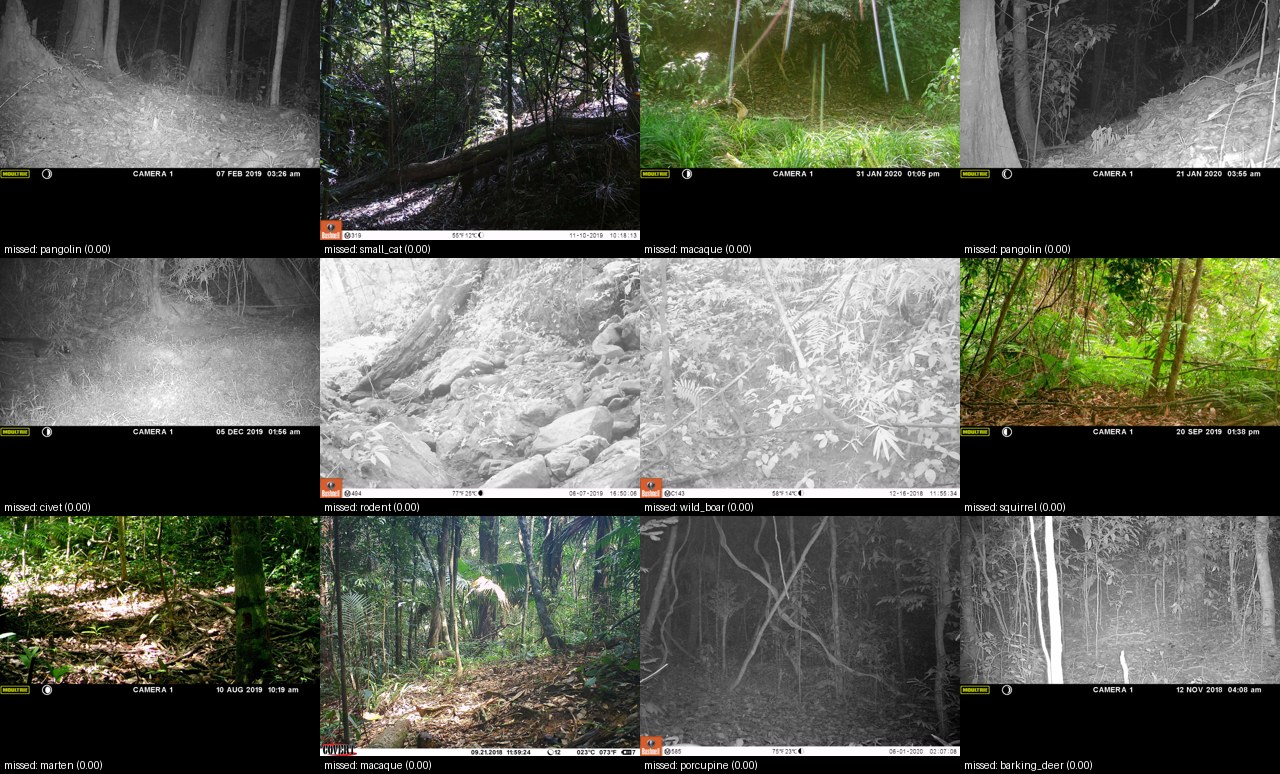
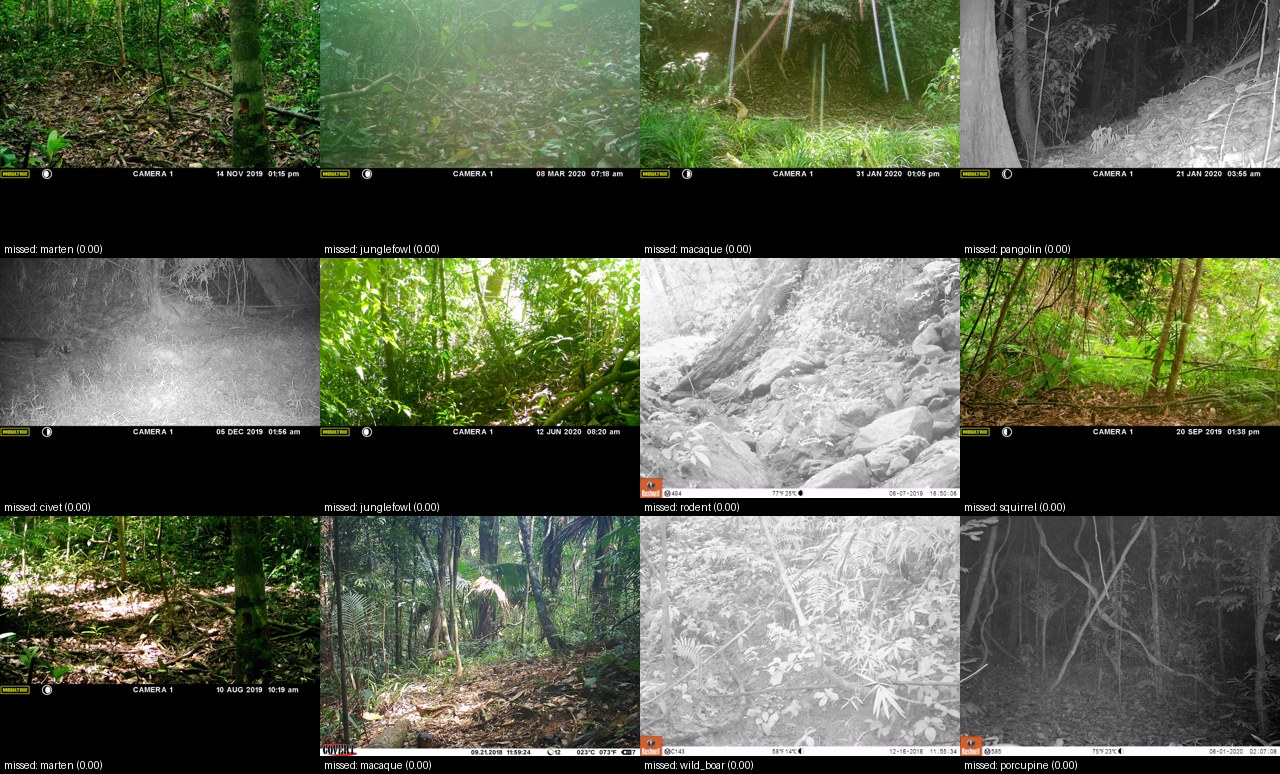
phase 1: drop padding strips in the detector, redo the numbers
the 16 px rule from the last commit would also drop a tiny animal in the
open, so a strip is now a box under 16 px thick that lies on the frame
edge (is_padding_strip). same 1,531 phase 2 crops dropped, crops.csv
byte-identical. the detector applies it too, so new runs come out clean.

saved phase 1 detections filtered in place (3,317 boxes from 2,023 of
5,726 frames; original kept outside git). at 0.01, recall 96.5 -> 95.5%
(27 animal events with no box, was 21), empties removed 28 -> 31%; at
90% recall 66% removed (was 65%). event auc 0.913 -> 0.910. pangolin is
still the worst group (87.8%), and no filter rule beats raising the
threshold.

diff --git a/src/ghats/crops.py b/src/ghats/crops.py
@@ -21,11 +21,10 @@ import pandas as pd
 
 BACKGROUND = "background"
 SPLITS = ("train", "val", "test")
-# Shorter box side, in frame pixels, below which a box is a letterbox-padding phantom.
-# has_area() drops the boxes that clamp to zero height, but ones that end a pixel or two
-# inside the frame survive: full-width strips along the top or bottom edge, conf <= 0.17.
-# In the Phase 2 detections every animal box under 16 px is one of those; nothing that
-# small could be classified anyway.
+# A box this thin (frame pixels) lying on the frame edge is a letterbox-padding phantom.
+# Boxes on the padding clamp to zero-height strips, but ones that end a pixel or two inside
+# the frame survive as full-width strips along the top or bottom edge, conf <= 0.17. In the
+# Phase 2 detections every animal box under 16 px is one of those.
 MIN_BOX_PX = 16
 
 
@@ -44,9 +43,14 @@ def crop_box(bbox: Sequence[float], w: int, h: int, pad: float = 0.1, min_side: 
     return left, top, max(right, left + 1), max(bottom, top + 1)
 
 
-def box_side_px(bbox: Sequence[float], w: int, h: int) -> float:
-    """Shorter side of a normalised [x1, y1, x2, y2] box, in pixels of a w x h frame."""
-    return min((bbox[2] - bbox[0]) * w, (bbox[3] - bbox[1]) * h)
+def is_padding_strip(bbox: Sequence[float], w: int, h: int) -> bool:
+    """Normalised [x1, y1, x2, y2] box thinner than MIN_BOX_PX and touching the frame edge
+    across that thin side (top/bottom for wide frames, left/right for tall ones). A tiny
+    animal in the open is kept."""
+    x1, y1, x2, y2 = bbox
+    flat = (y2 - y1) * h < MIN_BOX_PX and (y1 <= 0.0 or y2 >= 1.0)
+    narrow = (x2 - x1) * w < MIN_BOX_PX and (x1 <= 0.0 or x2 >= 1.0)
+    return flat or narrow
 
 
 def label_boxes(boxes: pd.DataFrame, min_conf: float, train_min_conf: float) -> pd.DataFrame:

diff --git a/src/ghats/detector.py b/src/ghats/detector.py
@@ -12,6 +12,8 @@ from typing import Any
 
 from PIL import Image
 
+from ghats.crops import is_padding_strip
+
 ANIMAL, PERSON, VEHICLE = 0, 1, 2
 _CLASS_NAMES = {ANIMAL: "animal", PERSON: "person", VEHICLE: "vehicle"}
 _SUPPORTED = ("MegaDetectorV6MIT", "MegaDetectorV6", "MegaDetectorV6Apache")
@@ -105,7 +107,8 @@ def _to_detections(classes: Any, confs: Any, boxes: Any, w: int, h: int) -> list
     # coordinates, sometimes slightly past the edge; normalise and clamp.
     # The model also fires on the letterbox padding above and below wide frames
     # (conf up to ~0.2, in almost every image). Those boxes lie wholly outside the
-    # image, clamp to zero-height strips on the border, and are dropped.
+    # image, clamp to zero-height strips on the border, and are dropped, along with the
+    # ones that end a pixel or two inside it.
     dets = [
         Detection(
             category=_CLASS_NAMES.get(int(c), str(int(c))),
@@ -114,4 +117,4 @@ def _to_detections(classes: Any, confs: Any, boxes: Any, w: int, h: int) -> list
         )
         for c, p, box in zip(classes, confs, boxes)
     ]
-    return [d for d in dets if has_area(d.bbox)]
+    return [d for d in dets if has_area(d.bbox) and not is_padding_strip(d.bbox, w, h)]

diff --git a/scripts/06_make_crops.py b/scripts/06_make_crops.py
@@ -28,7 +28,7 @@ from PIL import Image
 from tqdm import tqdm
 
 from ghats.config import load_config
-from ghats.crops import BACKGROUND, MIN_BOX_PX, SPLITS, box_side_px, crop_box, label_boxes, split_locations
+from ghats.crops import BACKGROUND, SPLITS, crop_box, is_padding_strip, label_boxes, split_locations
 
 
 def load_animal_boxes(path: Path, max_per_image: int) -> pd.DataFrame:
@@ -96,9 +96,9 @@ def main() -> int:
     # within a frame, and renumbering would point real crops at a phantom's saved image.
     with ThreadPoolExecutor(args.threads) as pool:
         sizes = dict(zip(crops["local_path"].unique(), pool.map(frame_size, crops["local_path"].unique())))
-    side = [box_side_px(b, *sizes[p]) for b, p in zip(crops["bbox"], crops["local_path"])]
-    phantom = pd.Series(side, index=crops.index) < MIN_BOX_PX
-    print(f"dropped {phantom.sum():,} padding-phantom boxes (shorter side < {MIN_BOX_PX} px)")
+    strip = [is_padding_strip(b, *sizes[p]) for b, p in zip(crops["bbox"], crops["local_path"])]
+    phantom = pd.Series(strip, index=crops.index)
+    print(f"dropped {phantom.sum():,} padding-strip boxes")
     crops = crops[~phantom]
 
     out = Path(args.out)

diff --git a/tests/test_crops.py b/tests/test_crops.py
@@ -1,13 +1,15 @@
 import pandas as pd
 
-from ghats.crops import BACKGROUND, MIN_BOX_PX, box_side_px, crop_box, label_boxes, split_locations
+from ghats.crops import BACKGROUND, crop_box, is_padding_strip, label_boxes, split_locations
 
 
-def test_padding_strip_is_below_min_box_size():
+def test_padding_strip():
     # Real case: a full-width strip one pixel tall along the top of a 4608 x 2592 frame.
-    assert box_side_px([0.0002, 0.0, 0.9973, 0.0003], 4608, 2592) < MIN_BOX_PX
-    # A small animal far from the camera is still kept.
-    assert box_side_px([0.50, 0.50, 0.51, 0.52], 3840, 2880) >= MIN_BOX_PX
+    assert is_padding_strip([0.0002, 0.0, 0.9973, 0.0003], 4608, 2592)
+    assert is_padding_strip([0.0, 0.998, 1.0, 1.0], 3840, 2880)  # bottom edge
+    # Tiny animals are kept: in the open, and at the edge if the box isn't thin across it.
+    assert not is_padding_strip([0.50, 0.50, 0.503, 0.51], 3840, 2880)  # 12 x 29 px
+    assert not is_padding_strip([0.20, 0.0, 0.25, 0.02], 3840, 2880)  # 192 x 58 px at the top
 
 
 class TestCropBox:

diff --git a/scripts/22_export_review.py b/scripts/22_export_review.py
@@ -42,7 +42,7 @@ import numpy as np
 import pandas as pd
 
 from ghats.config import load_config
-from ghats.crops import MIN_BOX_PX, box_side_px
+from ghats.crops import is_padding_strip
 from ghats.review import audit_ranks, shortlists, species_uncertainty, split_catalogue
 
 SCHEMA = """
@@ -108,7 +108,7 @@ def species_rows(cfg: dict) -> pd.DataFrame:
 
 
 def phantom_boxes(frame_paths: pd.Series, boxes: pd.Series) -> np.ndarray:
-    """Padding phantoms (see ghats.crops.MIN_BOX_PX); crops made before 06 dropped them
+    """Padding strips (ghats.crops.is_padding_strip); crops made before 06 dropped them
     are still in older predictions."""
     from PIL import Image
 
@@ -118,7 +118,7 @@ def phantom_boxes(frame_paths: pd.Series, boxes: pd.Series) -> np.ndarray:
             out.append(False)
             continue
         with Image.open(f) as im:  # reads the header only
-            out.append(box_side_px(json.loads(b), *im.size) < MIN_BOX_PX)
+            out.append(is_padding_strip(json.loads(b), *im.size))
     return np.array(out)
 
 

diff --git a/tests/test_core.py b/tests/test_core.py
@@ -173,3 +173,12 @@ def test_padding_boxes_are_dropped():
     assert len(dets) == 1
     assert dets[0].conf == 0.9
     assert dets[0].bbox == [0.0625, 0.2222, 0.25, 0.5556]
+
+
+def test_padding_strips_just_inside_the_frame_are_dropped():
+    from ghats.detector import _to_detections
+
+    # A padding box that reaches 2 px into the frame survives clamping with a tiny area.
+    boxes = [[2, -60, 1596, 2], [700, 400, 712, 430]]  # strip, then a small real animal (12 x 30 px)
+    dets = _to_detections([0, 0], [0.15, 0.3], boxes, 1600, 900)
+    assert [d.conf for d in dets] == [0.3]

diff --git a/README.md b/README.md
@@ -67,9 +67,9 @@ locations. Full numbers in [`reports/phase1/summary.md`](reports/phase1/summary.
 
 | Threshold (per trigger event) | Animal events kept | Empty events removed | Review workload removed |
 |---|---|---|---|
-| 0.01 (the lowest stored) | 96.5% (21 of 600 missed) | 28.0% | 15.8% |
-| 0.02 | 94.8% | 40.0% | 22.6% |
-| 0.06 | 90.2% | 65.0% | 37.4% |
+| 0.01 (the lowest stored) | 95.5% (27 of 600 missed) | 31.0% | 17.8% |
+| 0.02 | 93.5% | 44.5% | 25.5% |
+| 0.05 | 90.0% | 66.0% | 38.0% |
 
 Worst species group at 0.01: pangolin 87.8%, then rodent 92.7% and macaque 92.9%.
 Latency per image (GPU, RTX 3050 Laptop, batches of 16): 28 ms median, 40 ms p95,
@@ -78,9 +78,9 @@ including JPEG decode.
 ![trade-off](reports/phase1/tradeoff.png)
 
 **The short version: out of the box, MegaDetector doesn't filter this forest well.**
-The 98% recall target can't be reached at all. 21 animal events have no box above 0.01,
-and keeping 95% of animals still leaves 72% of empty events for a person to review.
-Things get better if you accept 90% recall, where it removes 65% of empty events.
+The 98% recall target can't be reached at all. 27 animal events have no box above 0.01,
+and keeping 95% of animals still leaves 69% of empty events for a person to review.
+Things get better if you accept 90% recall, where it removes 66% of empty events.
 
 **Why.** Looking at the highest-scoring "empty" events
 ([`false_alarms.jpg`](reports/phase1/false_alarms.jpg)) shows the same few culprits over
@@ -93,7 +93,7 @@ a person's legs or what looks like an animal at night. The missed animal events
 ([`missed_animals.jpg`](reports/phase1/missed_animals.jpg)) are a mix. At
 thumbnail size most look empty, but the pangolin bursts I checked at full size do
 have the animal in them: a dim shape the same colour as the leaf litter under IR.
-Pangolin is the worst group (5 of the 21 misses).
+Pangolin is the worst group (5 of the 27 misses).
 
 ### What I tried on top of the detector
 
@@ -103,13 +103,13 @@ Both are in [`src/ghats/filters.py`](src/ghats/filters.py) and compared in
 
 | Rule (at the lowest threshold, 0.01) | Animal events kept | Empty events removed |
 |---|---|---|
-| Max score (baseline) | 96.5% | 28.0% |
-| Burst agreement: 2 frames must see an animal | 94.0% | 35.2% |
-| Burst agreement: the same box in 2 frames | 84.7% | 37.8% |
-| Camera background: drop boxes where this camera fired in other events (IoU 0.5) | 95.0% | 29.3% |
+| Max score (baseline) | 95.5% | 31.0% |
+| Burst agreement: 2 frames must see an animal | 91.8% | 40.2% |
+| Burst agreement: the same box in 2 frames | 81.5% | 43.0% |
+| Camera background: drop boxes where this camera fired in other events (IoU 0.5) | 93.8% | 32.5% |
 
-Neither is better than just raising the threshold: at 94% recall the plain max score
-already removes about 40% of empty events, more than burst agreement's 35%. Burst agreement
+Neither is better than just raising the threshold: at 0.03 the plain max score keeps
+more animals (92.7%) and removes far more empty events (54%) than burst agreement's 40%. Burst agreement
 fails for three reasons: 26% of events are a single frame, animals often show up in
 only one frame of a burst, and leaves don't move, so they "agree" with themselves.
 Camera background could work on a real deployment, but this sample deliberately
@@ -146,15 +146,17 @@ Phase 2 trains a classifier on detector crops anyway, so it gets an extra
   The first fix only dropped boxes of exactly zero height. Strips that end a pixel
   or two inside the frame survived, and I only caught them when the reviewer
   dashboard drew a 1-pixel box along the top of a photo: 1,531 of 23,643 Phase 2
-  crops. Boxes with a side under 16 px are now dropped too (every animal box that
-  small was one of these strips).
+  crops. The detector now also drops boxes under 16 px thick that lie on the frame
+  edge (every animal box that thin was one of these strips; a tiny animal in the
+  open is kept). In Phase 1 this cost a point of recall at the lowest threshold
+  (96.5% → 95.5%): in 6 more animal events a strip had been the only "box".
 - **The detector runs in eval mode, in batches.** PyTorch-Wildlife 1.3's
   `single_image_detection()` for the MIT model reloads the checkpoint on every call
   and leaves the network in training mode, so BatchNorm normalises each image with
   its own statistics instead of the learned ones. `src/ghats/detector.py` loads the
   model once, calls `eval()`, and runs batches fed by a multi-process DataLoader.
   On the Phase 1 set this raised event-level AUC from 0.870 to 0.903 (both measured
-  before the padding fix below; 0.913 after it) and cut
+  before the padding fix below; 0.910 after it) and cut
   latency from 826 ms to 28 ms per image (median).
 - **MIT-licensed detector by default.** `MegaDetectorV6MIT` avoids the AGPL terms
   of the Ultralytics-based weights; the config can switch models for comparison.

diff --git a/reports/phase1/filter_experiments.md b/reports/phase1/filter_experiments.md
@@ -4,24 +4,24 @@
 
 | Rule | Target recall | Threshold | Recall | Empty events removed |
 |---|---|---|---|---|
-| Max score (baseline) | 98% | 0.01 | 96.5% (misses target) | 28.0% |
-| Max score (baseline) | 95% | 0.01 | 96.5% | 28.0% |
-| Max score (baseline) | 90% | 0.06 | 90.2% | 65.0% |
-| Burst: 2 frames agree | 98% | 0.01 | 94.0% (misses target) | 35.2% |
-| Burst: 2 frames agree | 95% | 0.01 | 94.0% (misses target) | 35.2% |
-| Burst: 2 frames agree | 90% | 0.01 | 94.0% | 35.2% |
-| Burst: 3 frames agree | 98% | 0.01 | 90.3% (misses target) | 40.2% |
-| Burst: 3 frames agree | 95% | 0.01 | 90.3% (misses target) | 40.2% |
-| Burst: 3 frames agree | 90% | 0.01 | 90.3% | 40.2% |
-| Burst: same box in 2 frames | 98% | 0.01 | 84.7% (misses target) | 37.8% |
-| Burst: same box in 2 frames | 95% | 0.01 | 84.7% (misses target) | 37.8% |
-| Burst: same box in 2 frames | 90% | 0.01 | 84.7% (misses target) | 37.8% |
-| Burst: same box in 3 frames | 98% | 0.01 | 75.5% (misses target) | 44.3% |
-| Burst: same box in 3 frames | 95% | 0.01 | 75.5% (misses target) | 44.3% |
-| Burst: same box in 3 frames | 90% | 0.01 | 75.5% (misses target) | 44.3% |
-| Camera background (IoU 0.5) | 98% | 0.01 | 95.0% (misses target) | 29.3% |
-| Camera background (IoU 0.5) | 95% | 0.01 | 95.0% | 29.3% |
-| Camera background (IoU 0.5) | 90% | 0.03 | 91.3% | 53.5% |
-| Camera background (IoU 0.7) | 98% | 0.01 | 95.5% (misses target) | 28.5% |
-| Camera background (IoU 0.7) | 95% | 0.01 | 95.5% | 28.5% |
-| Camera background (IoU 0.7) | 90% | 0.04 | 91.2% | 58.8% |
+| Max score (baseline) | 98% | 0.01 | 95.5% (misses target) | 31.0% |
+| Max score (baseline) | 95% | 0.01 | 95.5% | 31.0% |
+| Max score (baseline) | 90% | 0.05 | 90.0% | 66.0% |
+| Burst: 2 frames agree | 98% | 0.01 | 91.8% (misses target) | 40.2% |
+| Burst: 2 frames agree | 95% | 0.01 | 91.8% (misses target) | 40.2% |
+| Burst: 2 frames agree | 90% | 0.01 | 91.8% | 40.2% |
+| Burst: 3 frames agree | 98% | 0.01 | 87.8% (misses target) | 46.3% |
+| Burst: 3 frames agree | 95% | 0.01 | 87.8% (misses target) | 46.3% |
+| Burst: 3 frames agree | 90% | 0.01 | 87.8% (misses target) | 46.3% |
+| Burst: same box in 2 frames | 98% | 0.01 | 81.5% (misses target) | 43.0% |
+| Burst: same box in 2 frames | 95% | 0.01 | 81.5% (misses target) | 43.0% |
+| Burst: same box in 2 frames | 90% | 0.01 | 81.5% (misses target) | 43.0% |
+| Burst: same box in 3 frames | 98% | 0.01 | 72.3% (misses target) | 50.5% |
+| Burst: same box in 3 frames | 95% | 0.01 | 72.3% (misses target) | 50.5% |
+| Burst: same box in 3 frames | 90% | 0.01 | 72.3% (misses target) | 50.5% |
+| Camera background (IoU 0.5) | 98% | 0.01 | 93.8% (misses target) | 32.5% |
+| Camera background (IoU 0.5) | 95% | 0.01 | 93.8% (misses target) | 32.5% |
+| Camera background (IoU 0.5) | 90% | 0.02 | 90.7% | 47.2% |
+| Camera background (IoU 0.7) | 98% | 0.01 | 94.5% (misses target) | 31.5% |
+| Camera background (IoU 0.7) | 95% | 0.01 | 94.5% (misses target) | 31.5% |
+| Camera background (IoU 0.7) | 90% | 0.04 | 90.0% | 62.7% |

diff --git a/reports/phase1/summary.md b/reports/phase1/summary.md
@@ -5,16 +5,16 @@ Data: 5,726 frames in 1,200 trigger events (600 animal, 600 empty) from 507 came
 
 ## Operating point (target event recall 98%)
 
-The target is out of reach: even at the lowest threshold, 21 animal events have no detector box at all. The row below is the lowest threshold.
+The target is out of reach: even at the lowest threshold, 27 animal events have no detector box at all. The row below is the lowest threshold.
 
 | Metric | Value |
 |---|---|
 | Confidence threshold | 0.01 |
-| Animal events kept (recall) | 96.5% |
-| Precision of kept events | 57.3% |
-| Empty events removed | 28.0% |
-| Review workload removed | 15.8% |
-| Animal events missed | 21 of 600 |
+| Animal events kept (recall) | 95.5% |
+| Precision of kept events | 58.1% |
+| Empty events removed | 31.0% |
+| Review workload removed | 17.8% |
+| Animal events missed | 27 of 600 |
 
 ## Recall by species group at that threshold (worst first)
 
@@ -23,18 +23,18 @@ The target is out of reach: even at the lowest threshold, 21 animal events have 
 | pangolin | 41 | 87.8% |
 | rodent | 41 | 92.7% |
 | macaque | 42 | 92.9% |
+| marten | 32 | 93.8% |
+| junglefowl | 36 | 94.4% |
 | small_cat | 41 | 95.1% |
 | civet | 42 | 95.2% |
-| marten | 32 | 96.9% |
+| squirrel | 42 | 95.2% |
+| wild_boar | 43 | 95.3% |
+| mouse_deer | 29 | 96.6% |
 | porcupine | 41 | 97.6% |
-| squirrel | 42 | 97.6% |
 | barking_deer | 43 | 97.7% |
 | sambar | 43 | 97.7% |
-| wild_boar | 43 | 97.7% |
 | bear | 42 | 100.0% |
 | mongoose | 42 | 100.0% |
-| junglefowl | 36 | 100.0% |
-| mouse_deer | 29 | 100.0% |
 
 ## Latency (this machine, per image, includes image decode; batched runs report batch time / batch size)
 
